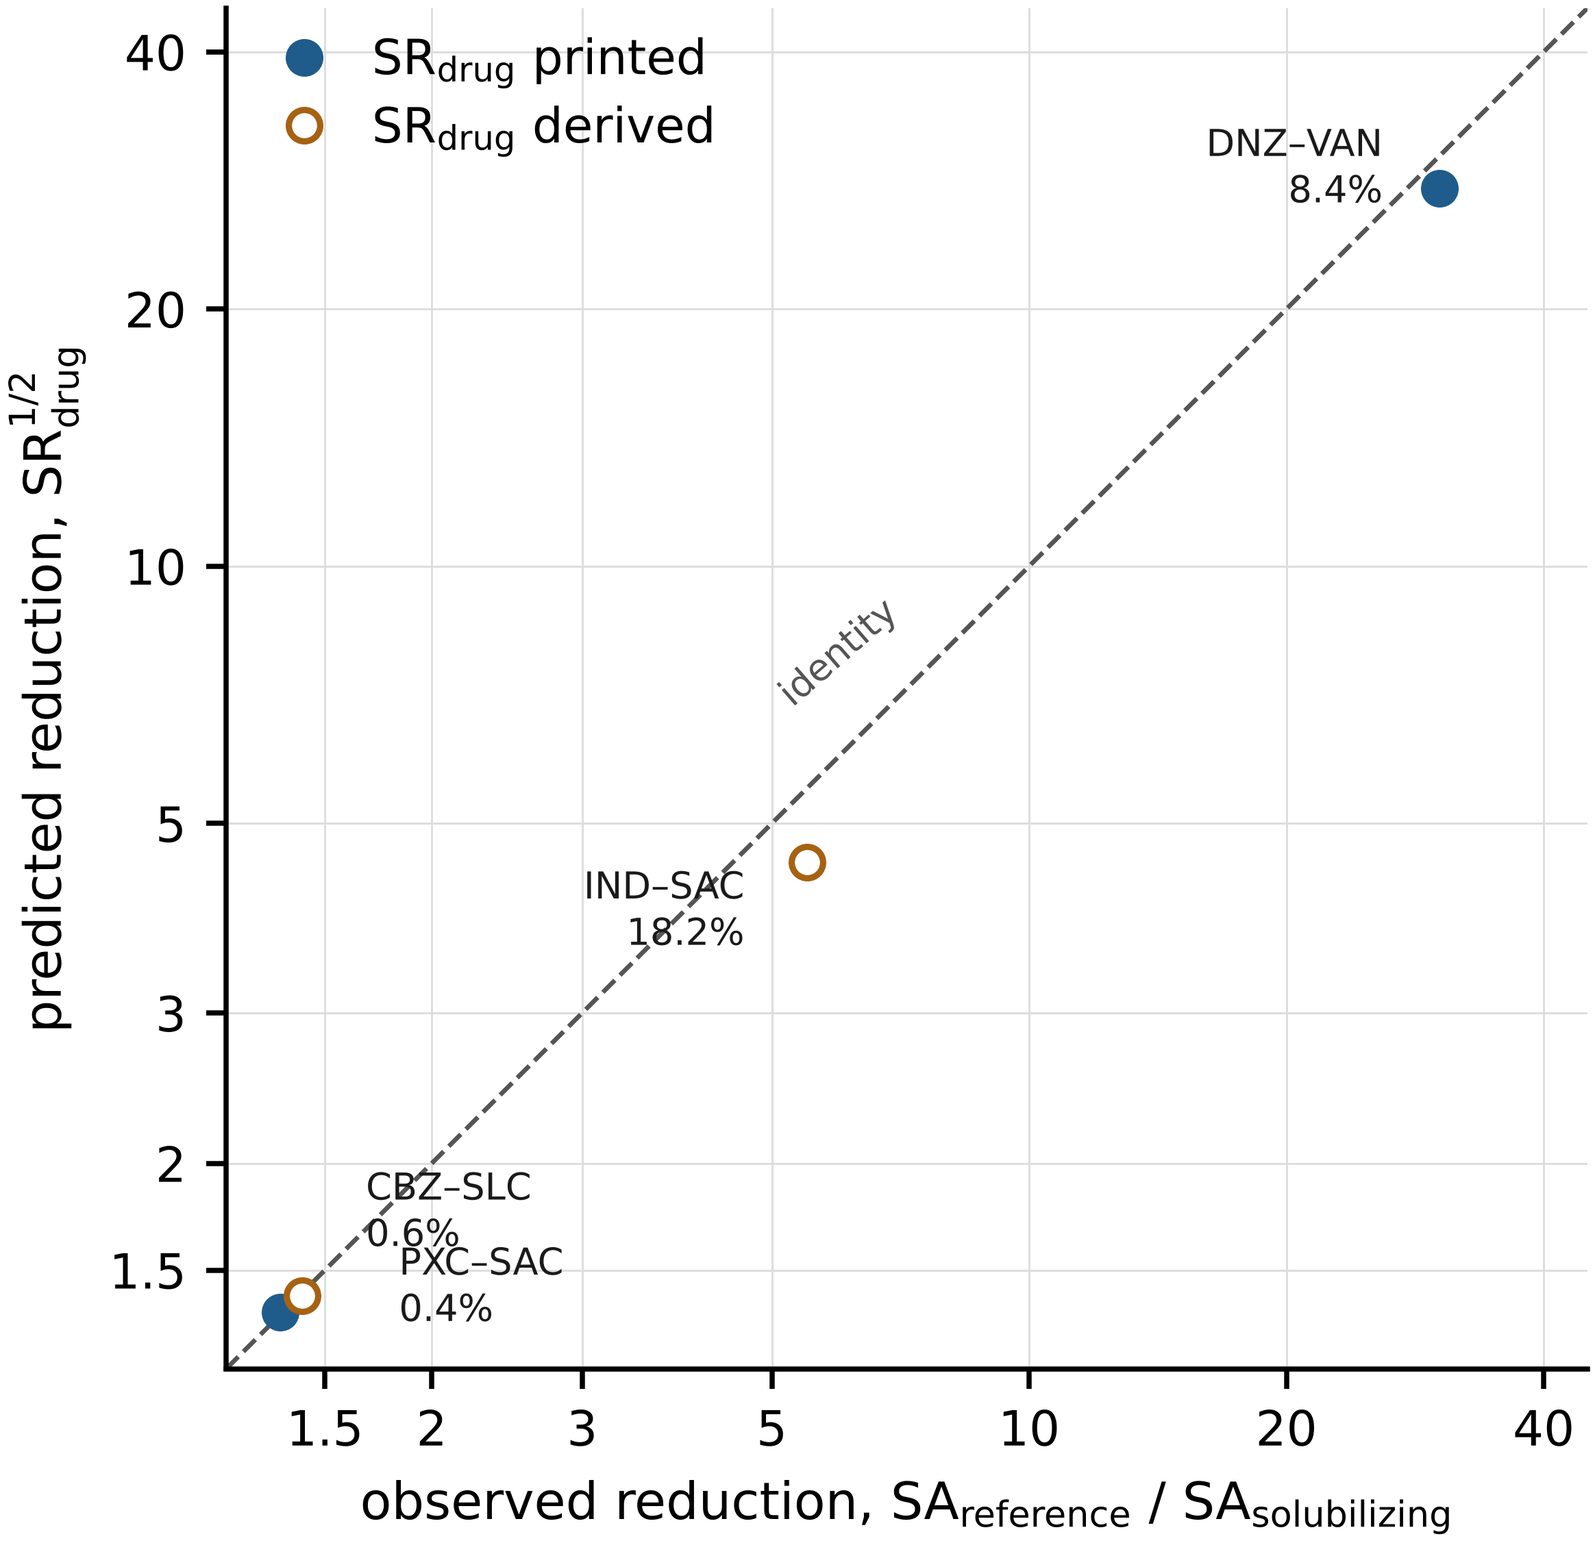
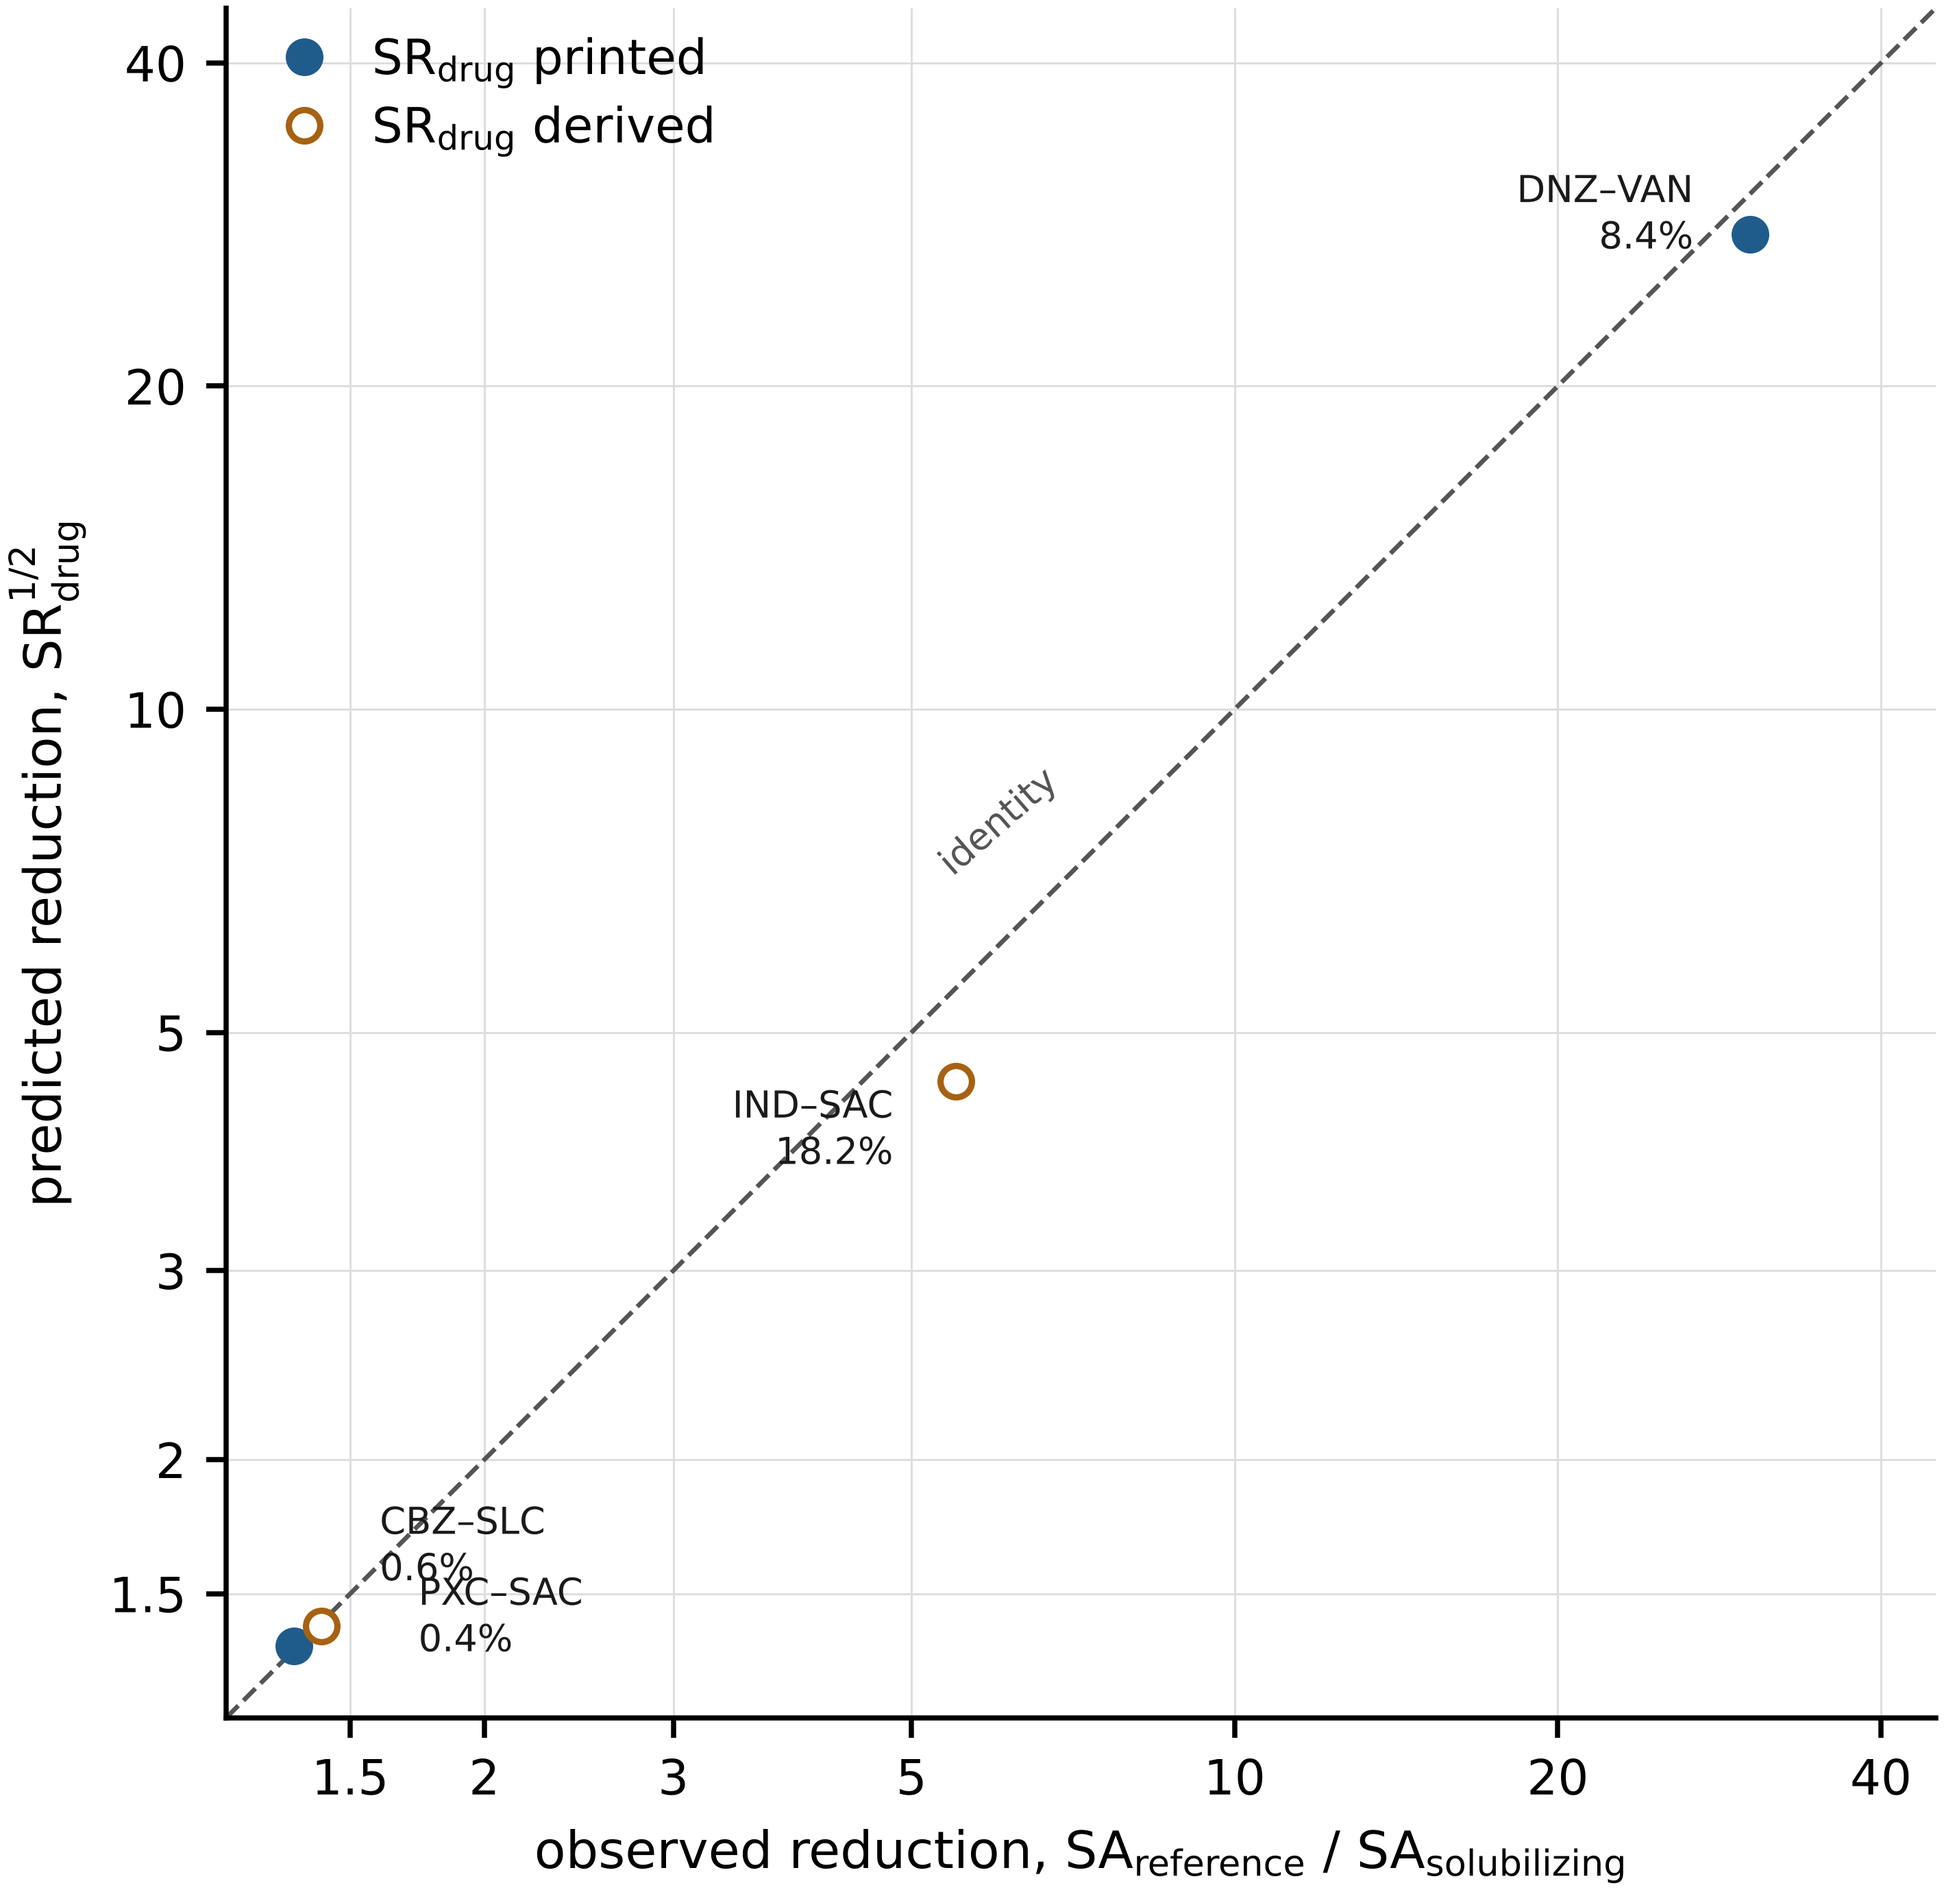
Size figure 2 to the journal's double-column band
The graphics appendix allows a single-column figure up to 3.33 inches and a
double-column figure between 4.167 and 7 inches. Figure 2 fell between the
two bands at 3.88 inches; it is now 4.73 inches wide. Figure 1 was already
within the double-column band at 5.45 inches. The plotted values are unchanged.

Claude-Session: https://claude.ai/code/session_012zRCrdhK291ig362bnaTrC

diff --git a/code/make_figures.py b/code/make_figures.py
@@ -72,7 +72,7 @@ pts = [r for r in res if r["predicted_reduction"] is not None]
 # position on these axes, so they are stated in the corner rather than placed at a made-up y.
 nopred = [r for r in res if r["predicted_reduction"] is None]
 
-fig, ax = plt.subplots(figsize=(5.0, 4.3))
+fig, ax = plt.subplots(figsize=(6.4, 5.4))
 
 lo, hi = 1.15, 45.0
 ax.plot([lo, hi], [lo, hi], ls="--", lw=0.8, color=MUTED, zorder=1)
